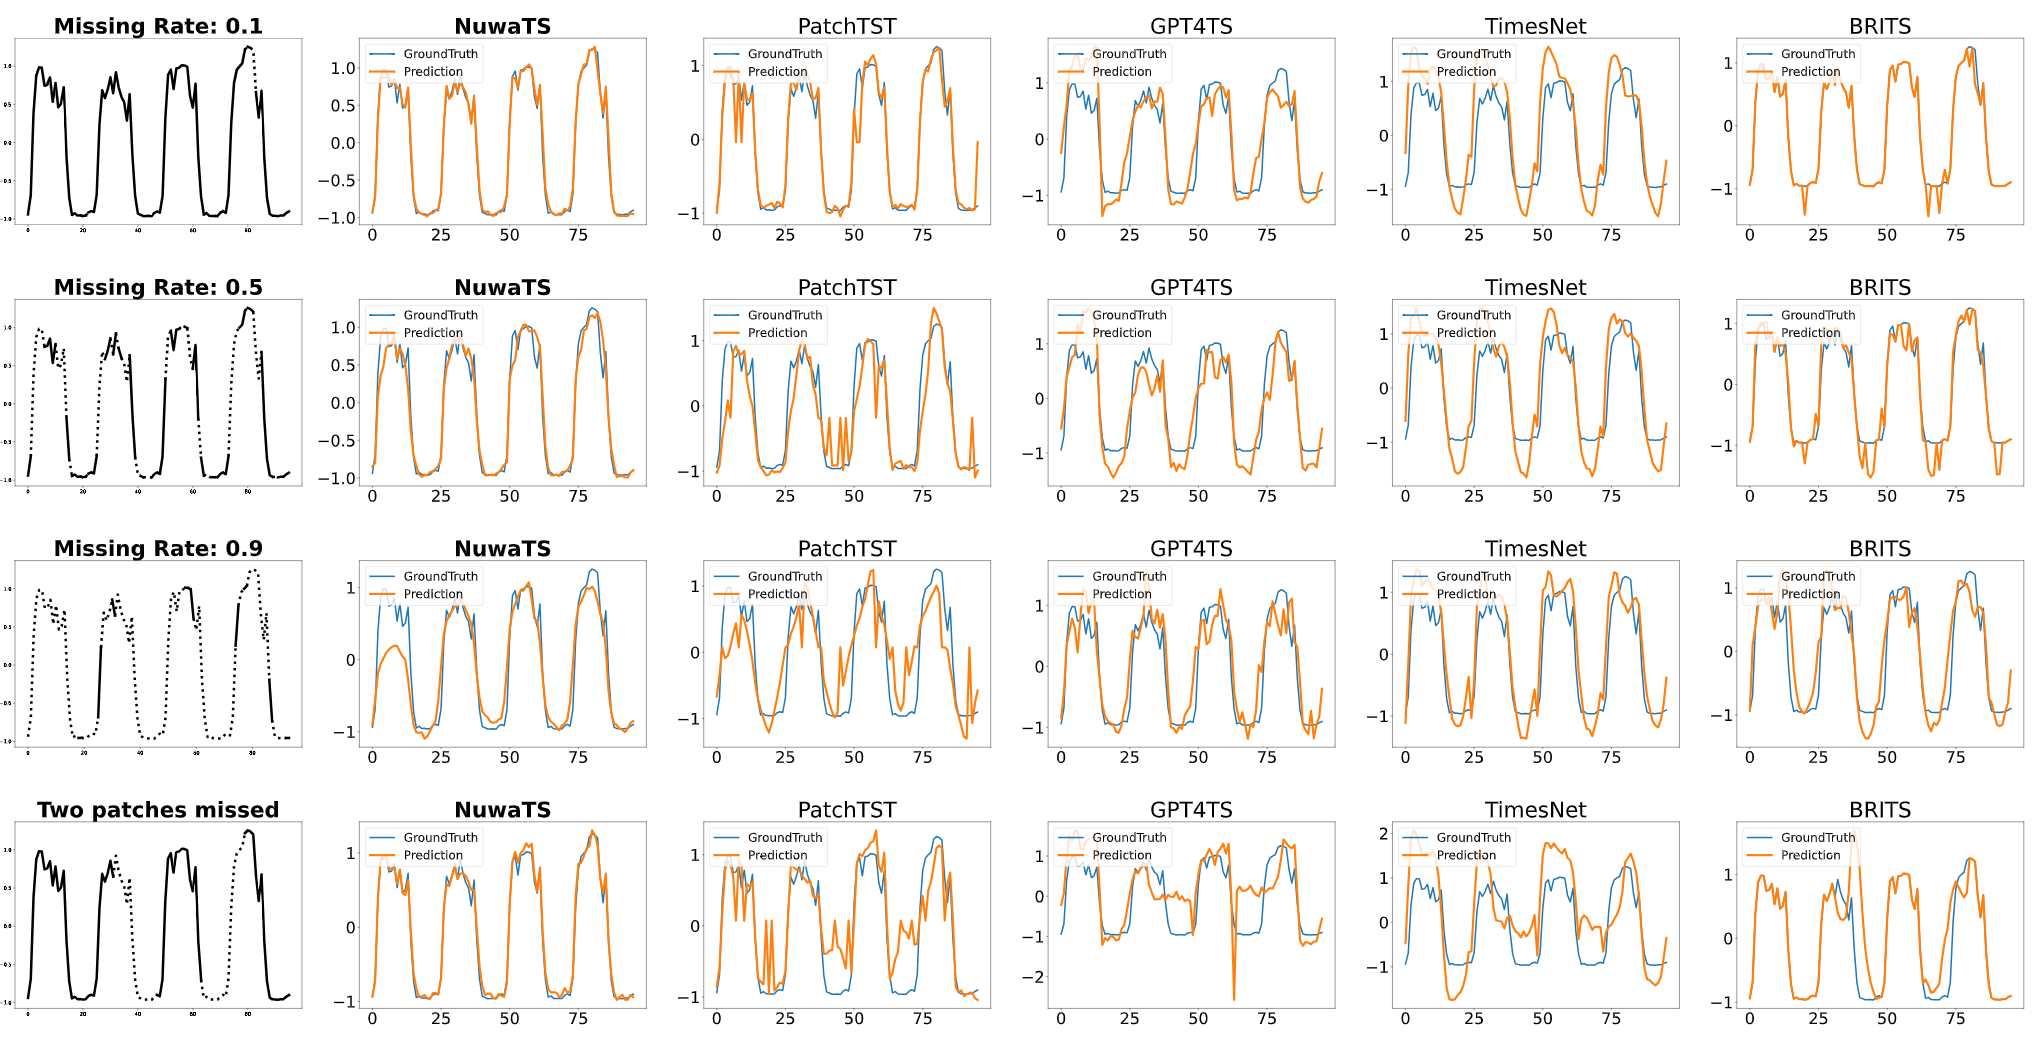
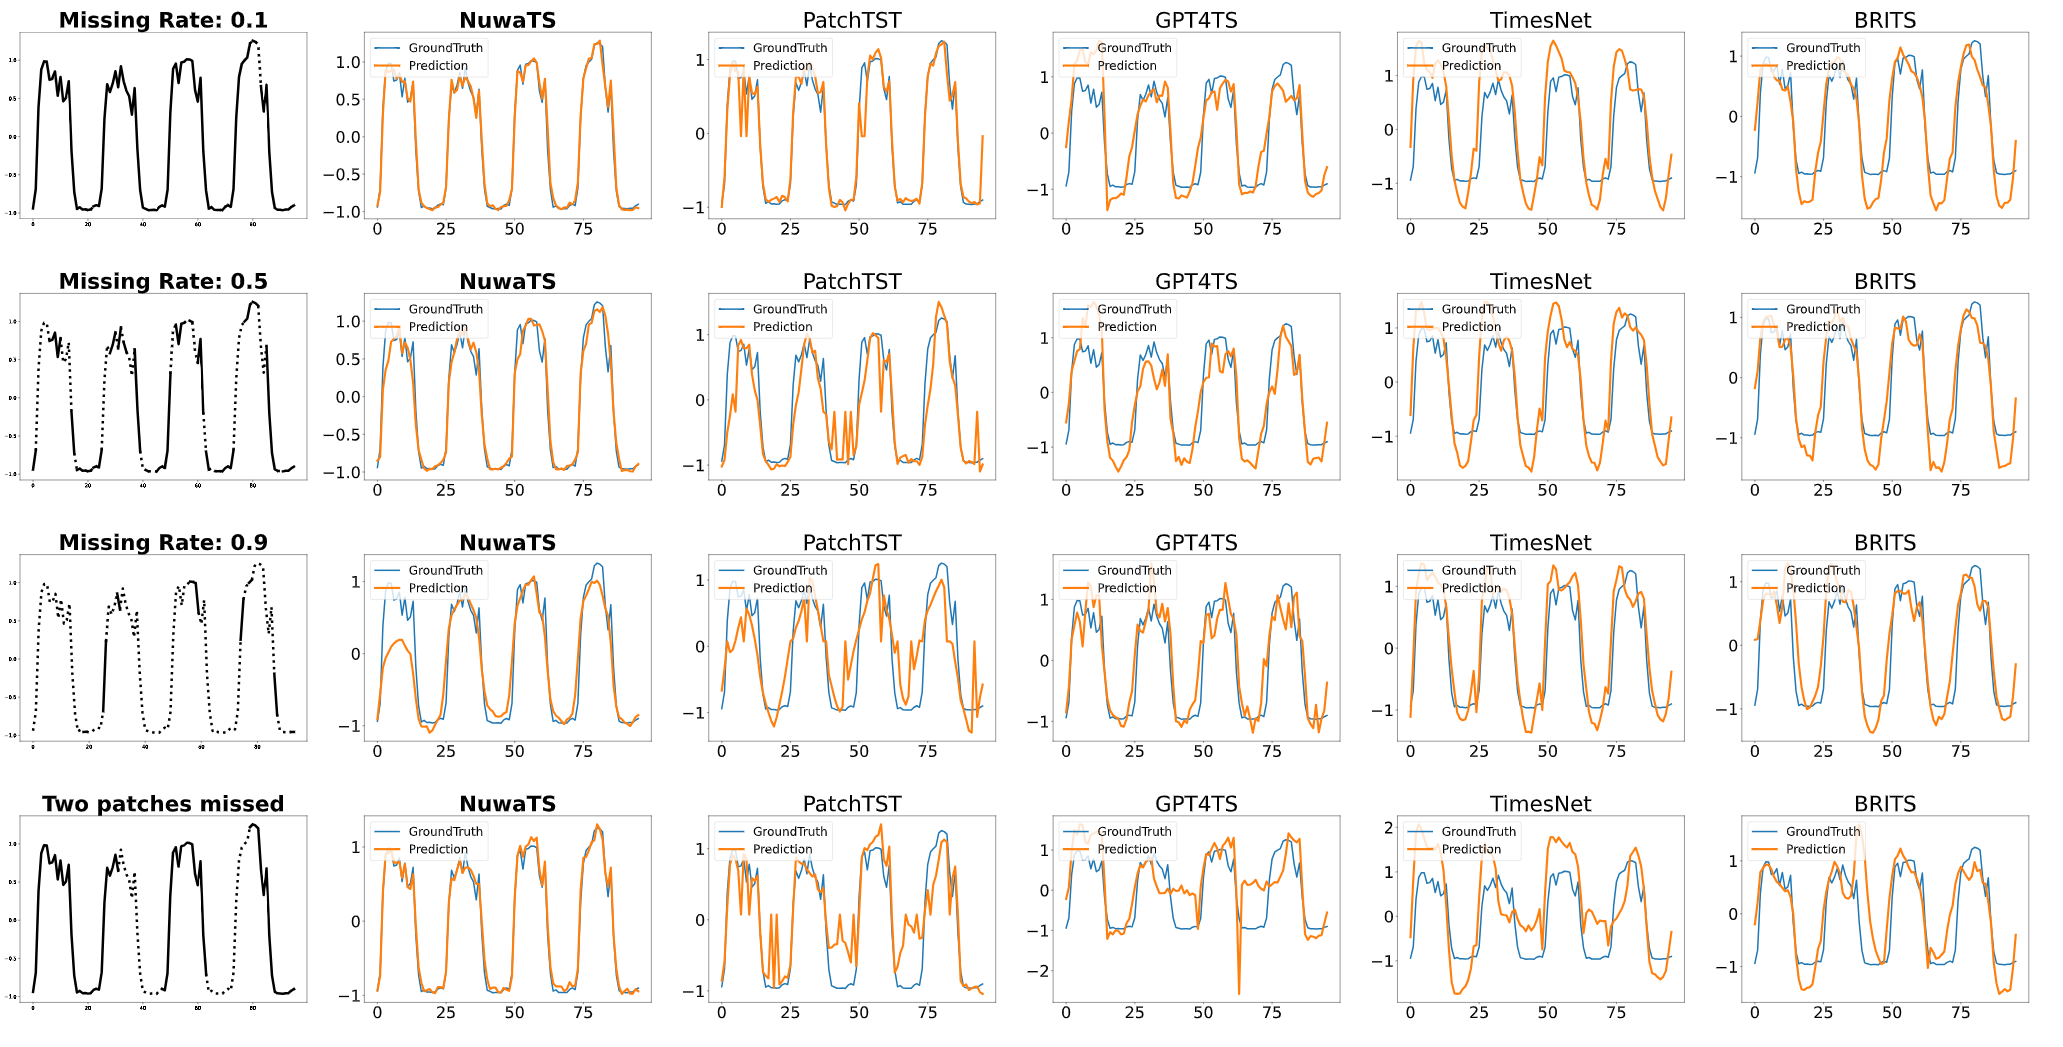
update README

Changed region(s): [[0.0, 0.0, 1.0, 0.9875]]

diff --git a/README.md b/README.md
@@ -38,6 +38,9 @@ Our contributions are as follows:
 <p align="center">
     <img src="images/case4.jpg" width="700" align="center">
 </p>
+<p align="center">
+    <img src="images/case5.jpg" width="700" align="center">
+</p>
 
 ## Data Download
 
